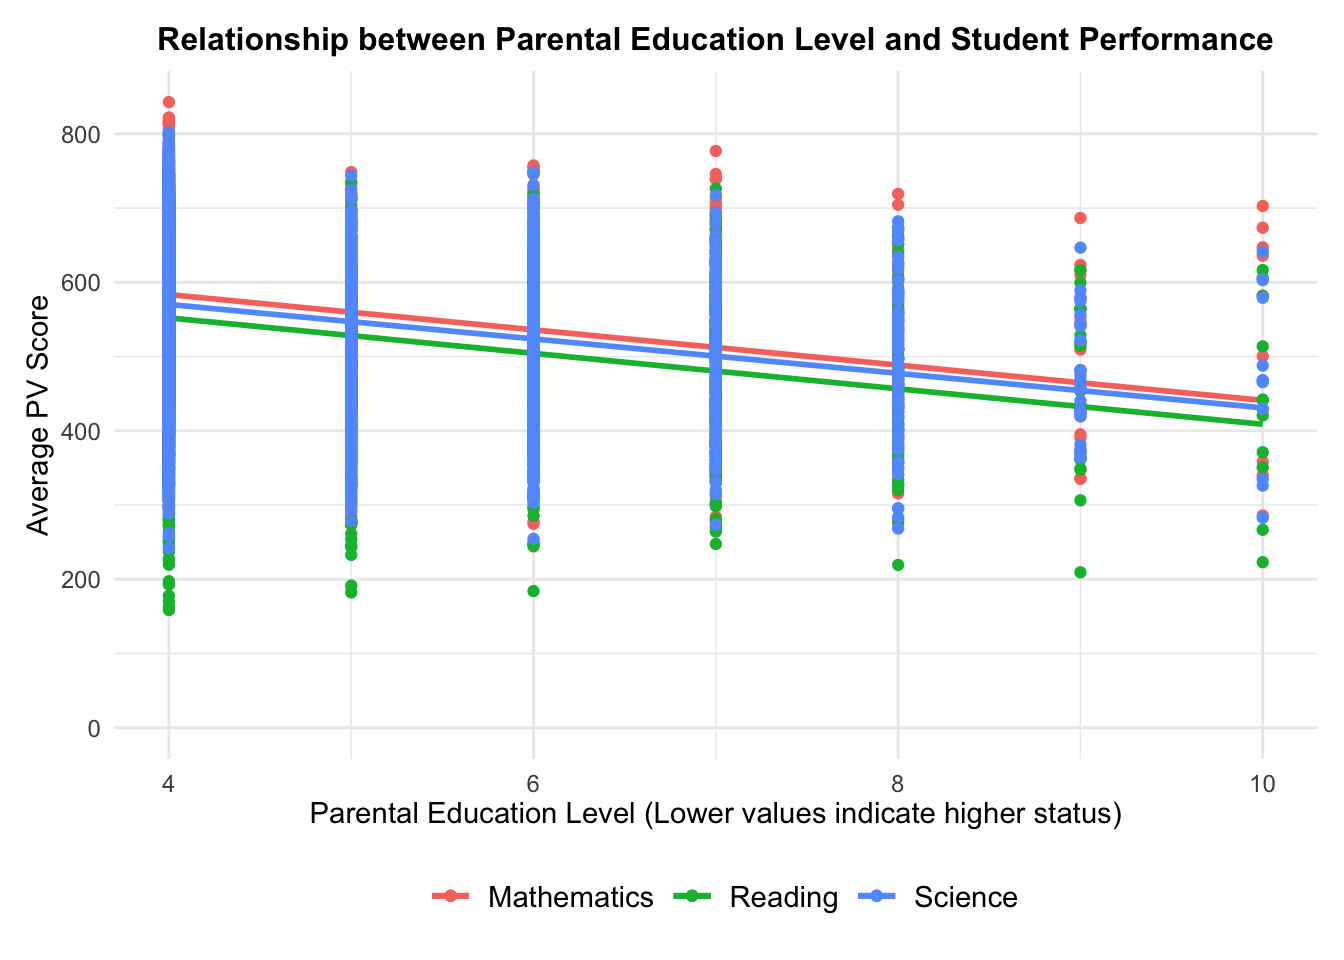
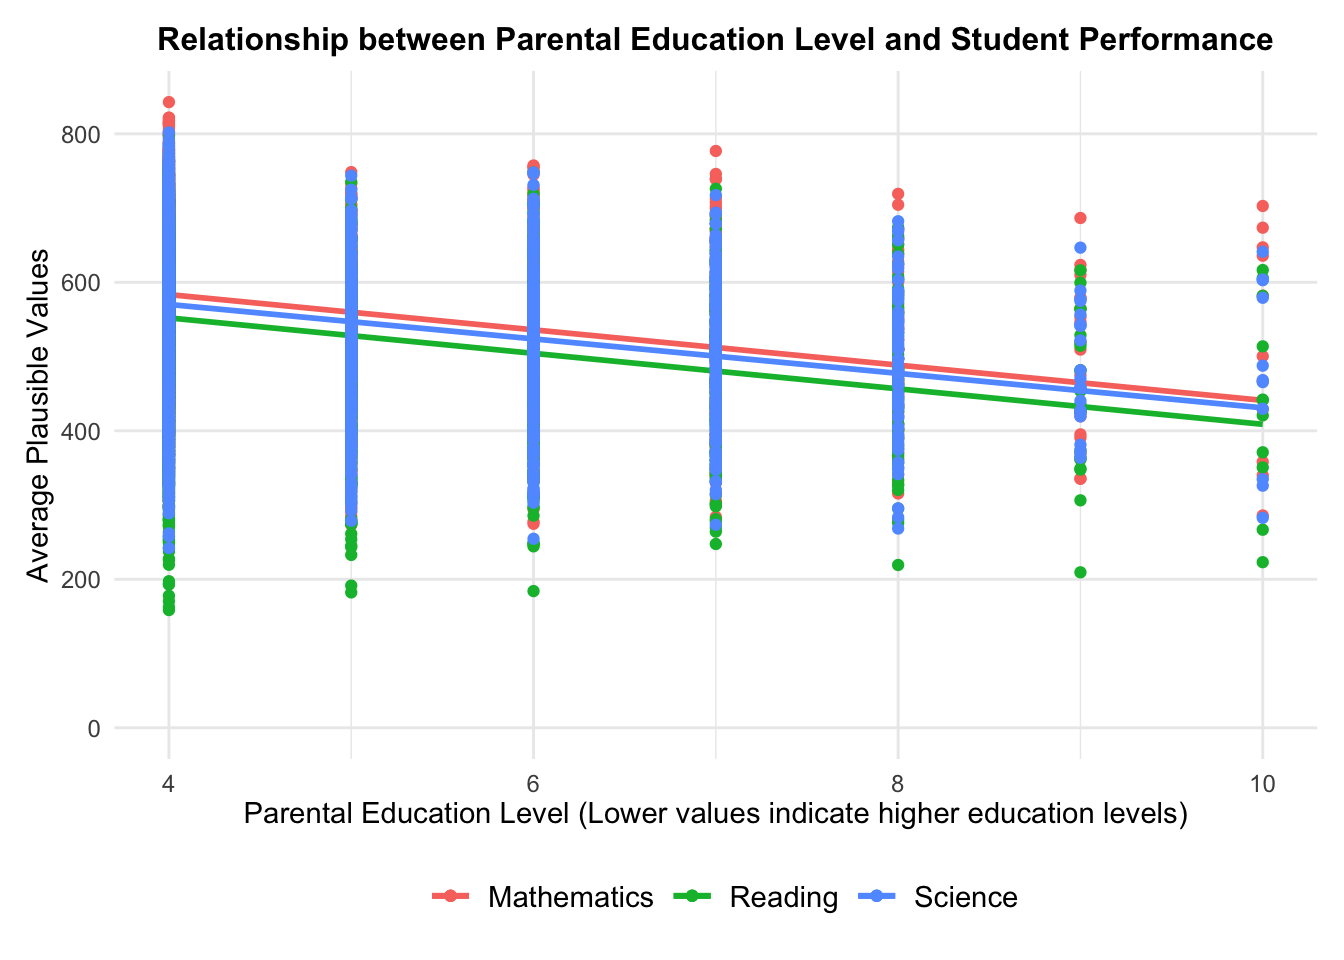
Take-home Exercise 2 WIP

Changed region(s): [[0.1875, 0.8125, 0.875, 0.875], [0.0, 0.2812, 0.0625, 0.5938]]

diff --git a/_site/Take-home_Ex/Take-home_Ex02/Take-home_Ex02.html b/_site/Take-home_Ex/Take-home_Ex02/Take-home_Ex02.html
@@ -197,7 +197,7 @@ pre > code.sourceCode > span > a:first-child::before { text-decoration: underlin
   <li><a href="#installing-r-packages" id="toc-installing-r-packages" class="nav-link" data-scroll-target="#installing-r-packages">1.1 Installing R packages</a></li>
   <li><a href="#importing-dataset" id="toc-importing-dataset" class="nav-link" data-scroll-target="#importing-dataset">1.2 Importing Dataset</a></li>
   </ul></li>
-  <li><a href="#critique-1" id="toc-critique-1" class="nav-link" data-scroll-target="#critique-1">2. Critique 1</a>
+  <li><a href="#critique-i" id="toc-critique-i" class="nav-link" data-scroll-target="#critique-i">2. Critique I</a>
   <ul class="collapse">
   <li><a href="#original-design" id="toc-original-design" class="nav-link" data-scroll-target="#original-design">2.1 Original Design</a></li>
   <li><a href="#enhancements-for-clarity" id="toc-enhancements-for-clarity" class="nav-link" data-scroll-target="#enhancements-for-clarity">2.2 Enhancements for Clarity</a></li>
@@ -214,16 +214,15 @@ pre > code.sourceCode > span > a:first-child::before { text-decoration: underlin
   <li><a href="#data-wrangling" id="toc-data-wrangling" class="nav-link" data-scroll-target="#data-wrangling">2.5 Data Wrangling</a></li>
   <li><a href="#final-design" id="toc-final-design" class="nav-link" data-scroll-target="#final-design">2.6 Final Design</a></li>
   </ul></li>
-  <li><a href="#critique-2" id="toc-critique-2" class="nav-link" data-scroll-target="#critique-2">3. Critique 2</a>
+  <li><a href="#critique-ii" id="toc-critique-ii" class="nav-link" data-scroll-target="#critique-ii">3. Critique II</a>
   <ul class="collapse">
   <li><a href="#original-design-1" id="toc-original-design-1" class="nav-link" data-scroll-target="#original-design-1">3.1 Original Design</a></li>
   <li><a href="#enhancements-for-clarity-1" id="toc-enhancements-for-clarity-1" class="nav-link" data-scroll-target="#enhancements-for-clarity-1">3.2 Enhancements for Clarity</a></li>
   <li><a href="#a-alternative-chart-type-for-better-analysis" id="toc-a-alternative-chart-type-for-better-analysis" class="nav-link" data-scroll-target="#a-alternative-chart-type-for-better-analysis">(a) Alternative chart type for better analysis</a></li>
   <li><a href="#sketch-of-proposed-design-1" id="toc-sketch-of-proposed-design-1" class="nav-link" data-scroll-target="#sketch-of-proposed-design-1">3.3 Sketch of Proposed Design</a></li>
-  <li><a href="#data-wrangling-1" id="toc-data-wrangling-1" class="nav-link" data-scroll-target="#data-wrangling-1">3.4 Data Wrangling</a></li>
   <li><a href="#final-design-1" id="toc-final-design-1" class="nav-link" data-scroll-target="#final-design-1">3.4 Final Design</a></li>
   </ul></li>
-  <li><a href="#critique-3" id="toc-critique-3" class="nav-link" data-scroll-target="#critique-3">4. Critique 3</a>
+  <li><a href="#critique-iii" id="toc-critique-iii" class="nav-link" data-scroll-target="#critique-iii">4. Critique III</a>
   <ul class="collapse">
   <li><a href="#original-design-2" id="toc-original-design-2" class="nav-link" data-scroll-target="#original-design-2">4.1 Original Design</a></li>
   <li><a href="#enhancements-for-clarity-2" id="toc-enhancements-for-clarity-2" class="nav-link" data-scroll-target="#enhancements-for-clarity-2">4.2 Enhancements for Clarity</a></li>
@@ -234,11 +233,10 @@ pre > code.sourceCode > span > a:first-child::before { text-decoration: underlin
   <li><a href="#a-centralized-main-graph-title" id="toc-a-centralized-main-graph-title" class="nav-link" data-scroll-target="#a-centralized-main-graph-title">(a) Centralized Main Graph Title</a></li>
   <li><a href="#b-enhanced-legend-and-color-differentiation" id="toc-b-enhanced-legend-and-color-differentiation" class="nav-link" data-scroll-target="#b-enhanced-legend-and-color-differentiation">(b) Enhanced Legend and Color Differentiation</a></li>
   <li><a href="#c-background-and-gridline-adjustment" id="toc-c-background-and-gridline-adjustment" class="nav-link" data-scroll-target="#c-background-and-gridline-adjustment">(c) Background and Gridline Adjustment</a></li>
-  <li><a href="#sketch-of-proposed-design-2" id="toc-sketch-of-proposed-design-2" class="nav-link" data-scroll-target="#sketch-of-proposed-design-2">4.5 Sketch of Proposed Design</a></li>
-  <li><a href="#data-wrangling-2" id="toc-data-wrangling-2" class="nav-link" data-scroll-target="#data-wrangling-2">4.5 Data Wrangling</a></li>
-  <li><a href="#final-design-2" id="toc-final-design-2" class="nav-link" data-scroll-target="#final-design-2">4.6 Final Design</a></li>
+  <li><a href="#sketch-of-proposed-design-2" id="toc-sketch-of-proposed-design-2" class="nav-link" data-scroll-target="#sketch-of-proposed-design-2">4.4 Sketch of Proposed Design</a></li>
+  <li><a href="#final-design-2" id="toc-final-design-2" class="nav-link" data-scroll-target="#final-design-2">4.5 Final Design</a></li>
   </ul></li>
-  <li><a href="#critique-4" id="toc-critique-4" class="nav-link" data-scroll-target="#critique-4">5. Critique 4</a>
+  <li><a href="#critique-iv" id="toc-critique-iv" class="nav-link" data-scroll-target="#critique-iv">5. Critique IV</a>
   <ul class="collapse">
   <li><a href="#original-design-3" id="toc-original-design-3" class="nav-link" data-scroll-target="#original-design-3">5.1 Original Design</a></li>
   <li><a href="#enhancements-for-clarity-3" id="toc-enhancements-for-clarity-3" class="nav-link" data-scroll-target="#enhancements-for-clarity-3">5.2 Enhancements for Clarity</a></li>
@@ -249,8 +247,7 @@ pre > code.sourceCode > span > a:first-child::before { text-decoration: underlin
   <li><a href="#a-harmonizing-color-palette" id="toc-a-harmonizing-color-palette" class="nav-link" data-scroll-target="#a-harmonizing-color-palette">(a) Harmonizing Color Palette</a></li>
   <li><a href="#b-enhancing-dot-visibility" id="toc-b-enhancing-dot-visibility" class="nav-link" data-scroll-target="#b-enhancing-dot-visibility">(b) Enhancing Dot Visibility</a></li>
   <li><a href="#sketch-of-proposed-design-3" id="toc-sketch-of-proposed-design-3" class="nav-link" data-scroll-target="#sketch-of-proposed-design-3">5.4 Sketch of Proposed Design</a></li>
-  <li><a href="#data-wrangling-3" id="toc-data-wrangling-3" class="nav-link" data-scroll-target="#data-wrangling-3">5.5 Data Wrangling</a></li>
-  <li><a href="#final-design-3" id="toc-final-design-3" class="nav-link" data-scroll-target="#final-design-3">5.6 Final Design</a></li>
+  <li><a href="#final-design-3" id="toc-final-design-3" class="nav-link" data-scroll-target="#final-design-3">5.5 Final Design</a></li>
   </ul></li>
   </ul>
 </nav>
@@ -278,7 +275,7 @@ pre > code.sourceCode > span > a:first-child::before { text-decoration: underlin
     <div>
     <div class="quarto-title-meta-heading">Modified</div>
     <div class="quarto-title-meta-contents">
-      <p class="date-modified">January 26, 2024</p>
+      <p class="date-modified">January 27, 2024</p>
     </div>
   </div>
     
@@ -338,8 +335,8 @@ pre > code.sourceCode > span > a:first-child::before { text-decoration: underlin
 </div>
 </section>
 </section>
-<section id="critique-1" class="level1">
-<h1>2. Critique 1</h1>
+<section id="critique-i" class="level1">
+<h1>2. Critique I</h1>
 <section id="original-design" class="level2">
 <h2 class="anchored" data-anchor-id="original-design">2.1 Original Design</h2>
 <p>The original design is shown below. <img src="images/Image1.png" class="img-fluid"></p>
@@ -385,6 +382,7 @@ pre > code.sourceCode > span > a:first-child::before { text-decoration: underlin
 </section>
 <section id="sketch-of-proposed-design" class="level2">
 <h2 class="anchored" data-anchor-id="sketch-of-proposed-design">2.4 Sketch of Proposed Design</h2>
+<p><img src="images/Image5.jpg" class="img-fluid"></p>
 </section>
 <section id="data-wrangling" class="level2">
 <h2 class="anchored" data-anchor-id="data-wrangling">2.5 Data Wrangling</h2>
@@ -504,8 +502,8 @@ pre > code.sourceCode > span > a:first-child::before { text-decoration: underlin
 </div>
 </section>
 </section>
-<section id="critique-2" class="level1">
-<h1>3. Critique 2</h1>
+<section id="critique-ii" class="level1">
+<h1>3. Critique II</h1>
 <section id="original-design-1" class="level2">
 <h2 class="anchored" data-anchor-id="original-design-1">3.1 Original Design</h2>
 <p>The original design is shown below.</p>
@@ -520,9 +518,7 @@ pre > code.sourceCode > span > a:first-child::before { text-decoration: underlin
 </section>
 <section id="sketch-of-proposed-design-1" class="level2">
 <h2 class="anchored" data-anchor-id="sketch-of-proposed-design-1">3.3 Sketch of Proposed Design</h2>
-</section>
-<section id="data-wrangling-1" class="level2">
-<h2 class="anchored" data-anchor-id="data-wrangling-1">3.4 Data Wrangling</h2>
+<p><img src="images/Image6.jpg" class="img-fluid"></p>
 </section>
 <section id="final-design-1" class="level2">
 <h2 class="anchored" data-anchor-id="final-design-1">3.4 Final Design</h2>
@@ -599,8 +595,8 @@ pre > code.sourceCode > span > a:first-child::before { text-decoration: underlin
 </div>
 </section>
 </section>
-<section id="critique-3" class="level1">
-<h1>4. Critique 3</h1>
+<section id="critique-iii" class="level1">
+<h1>4. Critique III</h1>
 <section id="original-design-2" class="level2">
 <h2 class="anchored" data-anchor-id="original-design-2">4.1 Original Design</h2>
 <p>The original design is shown below.</p>
@@ -637,13 +633,11 @@ pre > code.sourceCode > span > a:first-child::before { text-decoration: underlin
 <p>To accommodate the various colors present in the graph and enhance visual clarity, we will remove the grey background. This simplification will reduce visual clutter and focus attention on the data points. Additionally, to maintain gridline visibility while ensuring they are not visually intrusive, we will change their color to a subtle grey. This adjustment will create a cleaner and more visually pleasing graph that is easier on the eyes.</p>
 </section>
 <section id="sketch-of-proposed-design-2" class="level2">
-<h2 class="anchored" data-anchor-id="sketch-of-proposed-design-2">4.5 Sketch of Proposed Design</h2>
-</section>
-<section id="data-wrangling-2" class="level2">
-<h2 class="anchored" data-anchor-id="data-wrangling-2">4.5 Data Wrangling</h2>
+<h2 class="anchored" data-anchor-id="sketch-of-proposed-design-2">4.4 Sketch of Proposed Design</h2>
+<p><img src="images/Image7.jpg" class="img-fluid"></p>
 </section>
 <section id="final-design-2" class="level2">
-<h2 class="anchored" data-anchor-id="final-design-2">4.6 Final Design</h2>
+<h2 class="anchored" data-anchor-id="final-design-2">4.5 Final Design</h2>
 <div class="cell">
 <div class="sourceCode cell-code" id="cb13"><pre class="sourceCode r code-with-copy"><code class="sourceCode r"><span id="cb13-1"><a href="#cb13-1" aria-hidden="true" tabindex="-1"></a><span class="fu">library</span>(ggplot2)</span>
 <span id="cb13-2"><a href="#cb13-2" aria-hidden="true" tabindex="-1"></a><span class="fu">library</span>(dplyr)</span>
@@ -688,30 +682,31 @@ pre > code.sourceCode > span > a:first-child::before { text-decoration: underlin
 <span id="cb13-41"><a href="#cb13-41" aria-hidden="true" tabindex="-1"></a>  <span class="fu">scale_y_continuous</span>(<span class="at">expand =</span> <span class="fu">expansion</span>(<span class="at">mult =</span> <span class="fu">c</span>(<span class="fl">0.01</span>, <span class="fl">0.01</span>)), <span class="at">limits =</span> <span class="fu">c</span>(<span class="dv">0</span>, <span class="cn">NA</span>)) <span class="sc">+</span>  <span class="co"># Start y-axis at 0, adjust if needed</span></span>
 <span id="cb13-42"><a href="#cb13-42" aria-hidden="true" tabindex="-1"></a>  <span class="fu">theme_minimal</span>() <span class="sc">+</span></span>
 <span id="cb13-43"><a href="#cb13-43" aria-hidden="true" tabindex="-1"></a>  <span class="fu">theme</span>(</span>
-<span id="cb13-44"><a href="#cb13-44" aria-hidden="true" tabindex="-1"></a>    <span class="at">plot.title =</span> <span class="fu">element_text</span>(<span class="at">hjust =</span> <span class="fl">0.5</span>, <span class="at">face =</span> <span class="st">"bold"</span>, <span class="at">size =</span> <span class="dv">14</span>),</span>
-<span id="cb13-45"><a href="#cb13-45" aria-hidden="true" tabindex="-1"></a>    <span class="at">axis.title.x =</span> <span class="fu">element_text</span>(<span class="at">size =</span> <span class="dv">11</span>),</span>
-<span id="cb13-46"><a href="#cb13-46" aria-hidden="true" tabindex="-1"></a>    <span class="at">axis.title.y =</span> <span class="fu">element_text</span>(<span class="at">size =</span> <span class="dv">11</span>),</span>
-<span id="cb13-47"><a href="#cb13-47" aria-hidden="true" tabindex="-1"></a>    <span class="at">axis.text.x =</span> <span class="fu">element_text</span>(<span class="at">hjust =</span> <span class="dv">1</span>, <span class="at">angle =</span> <span class="dv">0</span>),  <span class="co"># Horizontal x-axis text</span></span>
-<span id="cb13-48"><a href="#cb13-48" aria-hidden="true" tabindex="-1"></a>    <span class="at">axis.text.y =</span> <span class="fu">element_text</span>(<span class="at">size =</span> <span class="dv">11</span>),</span>
-<span id="cb13-49"><a href="#cb13-49" aria-hidden="true" tabindex="-1"></a>    <span class="at">panel.grid.major.x =</span> <span class="fu">element_line</span>(<span class="at">color =</span> <span class="st">"grey90"</span>), <span class="co"># Add vertical gridlines</span></span>
-<span id="cb13-50"><a href="#cb13-50" aria-hidden="true" tabindex="-1"></a>    <span class="at">panel.grid.minor.x =</span> <span class="fu">element_blank</span>(),</span>
-<span id="cb13-51"><a href="#cb13-51" aria-hidden="true" tabindex="-1"></a>    <span class="at">panel.grid.major.y =</span> <span class="fu">element_line</span>(<span class="at">color =</span> <span class="st">"grey90"</span>), <span class="co"># Add horizontal gridlines</span></span>
-<span id="cb13-52"><a href="#cb13-52" aria-hidden="true" tabindex="-1"></a>    <span class="at">legend.position =</span> <span class="st">"bottom"</span>,</span>
-<span id="cb13-53"><a href="#cb13-53" aria-hidden="true" tabindex="-1"></a>    <span class="at">legend.title =</span> <span class="fu">element_blank</span>(),</span>
-<span id="cb13-54"><a href="#cb13-54" aria-hidden="true" tabindex="-1"></a>    <span class="at">legend.text =</span> <span class="fu">element_text</span>(<span class="at">size =</span> <span class="dv">12</span>)</span>
-<span id="cb13-55"><a href="#cb13-55" aria-hidden="true" tabindex="-1"></a>  ) <span class="sc">+</span></span>
-<span id="cb13-56"><a href="#cb13-56" aria-hidden="true" tabindex="-1"></a>  <span class="fu">guides</span>(<span class="at">color =</span> <span class="fu">guide_legend</span>(<span class="at">title =</span> <span class="st">"Subject"</span>, <span class="at">override.aes =</span> <span class="fu">list</span>(<span class="at">size =</span> <span class="dv">4</span>))) <span class="co"># Ensure legend is shown</span></span>
-<span id="cb13-57"><a href="#cb13-57" aria-hidden="true" tabindex="-1"></a></span>
-<span id="cb13-58"><a href="#cb13-58" aria-hidden="true" tabindex="-1"></a><span class="co"># Print the scatterplot</span></span>
-<span id="cb13-59"><a href="#cb13-59" aria-hidden="true" tabindex="-1"></a><span class="fu">print</span>(p_combined)</span></code><button title="Copy to Clipboard" class="code-copy-button"><i class="bi"></i></button></pre></div>
+<span id="cb13-44"><a href="#cb13-44" aria-hidden="true" tabindex="-1"></a>  <span class="at">plot.title =</span> <span class="fu">element_text</span>(<span class="at">hjust =</span> <span class="fl">0.5</span>, <span class="at">face =</span> <span class="st">"bold"</span>, <span class="at">size =</span> <span class="dv">14</span>),</span>
+<span id="cb13-45"><a href="#cb13-45" aria-hidden="true" tabindex="-1"></a>  <span class="at">axis.title.x =</span> <span class="fu">element_text</span>(<span class="at">size =</span> <span class="dv">11</span>),</span>
+<span id="cb13-46"><a href="#cb13-46" aria-hidden="true" tabindex="-1"></a>  <span class="at">axis.title.y =</span> <span class="fu">element_text</span>(<span class="at">size =</span> <span class="dv">11</span>),</span>
+<span id="cb13-47"><a href="#cb13-47" aria-hidden="true" tabindex="-1"></a>  <span class="at">axis.text.x =</span> <span class="fu">element_text</span>(<span class="at">hjust =</span> <span class="dv">1</span>, <span class="at">angle =</span> <span class="dv">0</span>),  <span class="co"># Horizontal x-axis text</span></span>
+<span id="cb13-48"><a href="#cb13-48" aria-hidden="true" tabindex="-1"></a>  <span class="at">axis.text.y =</span> <span class="fu">element_text</span>(<span class="at">size =</span> <span class="dv">11</span>),</span>
+<span id="cb13-49"><a href="#cb13-49" aria-hidden="true" tabindex="-1"></a>  <span class="at">panel.grid.major.x =</span> <span class="fu">element_line</span>(<span class="at">color =</span> <span class="st">"grey90"</span>),  <span class="co"># Add vertical gridlines</span></span>
+<span id="cb13-50"><a href="#cb13-50" aria-hidden="true" tabindex="-1"></a>  <span class="at">panel.grid.minor.x =</span> <span class="fu">element_blank</span>(),  <span class="co"># Remove minor vertical gridlines</span></span>
+<span id="cb13-51"><a href="#cb13-51" aria-hidden="true" tabindex="-1"></a>  <span class="at">panel.grid.major.y =</span> <span class="fu">element_line</span>(<span class="at">color =</span> <span class="st">"grey90"</span>),  <span class="co"># Add major horizontal gridlines</span></span>
+<span id="cb13-52"><a href="#cb13-52" aria-hidden="true" tabindex="-1"></a>  <span class="at">panel.grid.minor.y =</span> <span class="fu">element_blank</span>(),  <span class="co"># Remove minor horizontal gridlines</span></span>
+<span id="cb13-53"><a href="#cb13-53" aria-hidden="true" tabindex="-1"></a>  <span class="at">legend.position =</span> <span class="st">"bottom"</span>,</span>
+<span id="cb13-54"><a href="#cb13-54" aria-hidden="true" tabindex="-1"></a>  <span class="at">legend.title =</span> <span class="fu">element_blank</span>(),</span>
+<span id="cb13-55"><a href="#cb13-55" aria-hidden="true" tabindex="-1"></a>  <span class="at">legend.text =</span> <span class="fu">element_text</span>(<span class="at">size =</span> <span class="dv">12</span>)</span>
+<span id="cb13-56"><a href="#cb13-56" aria-hidden="true" tabindex="-1"></a>) <span class="sc">+</span></span>
+<span id="cb13-57"><a href="#cb13-57" aria-hidden="true" tabindex="-1"></a><span class="fu">guides</span>(<span class="at">color =</span> <span class="fu">guide_legend</span>(<span class="at">title =</span> <span class="st">"Subject"</span>, <span class="at">override.aes =</span> <span class="fu">list</span>(<span class="at">size =</span> <span class="dv">4</span>))) <span class="co"># Ensure legend is shown correctly</span></span>
+<span id="cb13-58"><a href="#cb13-58" aria-hidden="true" tabindex="-1"></a></span>
+<span id="cb13-59"><a href="#cb13-59" aria-hidden="true" tabindex="-1"></a><span class="co"># Print the scatterplot</span></span>
+<span id="cb13-60"><a href="#cb13-60" aria-hidden="true" tabindex="-1"></a><span class="fu">print</span>(p_combined)</span></code><button title="Copy to Clipboard" class="code-copy-button"><i class="bi"></i></button></pre></div>
 <div class="cell-output-display">
 <p><img src="Take-home_Ex02_files/figure-html/unnamed-chunk-12-1.png" class="img-fluid" width="672"></p>
 </div>
 </div>
 </section>
 </section>
-<section id="critique-4" class="level1">
-<h1>5. Critique 4</h1>
+<section id="critique-iv" class="level1">
+<h1>5. Critique IV</h1>
 <section id="original-design-3" class="level2">
 <h2 class="anchored" data-anchor-id="original-design-3">5.1 Original Design</h2>
 <p>The original design is shown below.</p>
@@ -745,12 +740,10 @@ pre > code.sourceCode > span > a:first-child::before { text-decoration: underlin
 </section>
 <section id="sketch-of-proposed-design-3" class="level2">
 <h2 class="anchored" data-anchor-id="sketch-of-proposed-design-3">5.4 Sketch of Proposed Design</h2>
-</section>
-<section id="data-wrangling-3" class="level2">
-<h2 class="anchored" data-anchor-id="data-wrangling-3">5.5 Data Wrangling</h2>
+<p><img src="images/Image8.jpg" class="img-fluid"></p>
 </section>
 <section id="final-design-3" class="level2">
-<h2 class="anchored" data-anchor-id="final-design-3">5.6 Final Design</h2>
+<h2 class="anchored" data-anchor-id="final-design-3">5.5 Final Design</h2>
 <div class="cell">
 <div class="sourceCode cell-code" id="cb14"><pre class="sourceCode r code-with-copy"><code class="sourceCode r"><span id="cb14-1"><a href="#cb14-1" aria-hidden="true" tabindex="-1"></a><span class="fu">library</span>(ggplot2)</span>
 <span id="cb14-2"><a href="#cb14-2" aria-hidden="true" tabindex="-1"></a><span class="fu">library</span>(dplyr)</span>
@@ -774,8 +767,8 @@ pre > code.sourceCode > span > a:first-child::before { text-decoration: underlin
 <span id="cb14-20"><a href="#cb14-20" aria-hidden="true" tabindex="-1"></a>  <span class="fu">geom_smooth</span>(<span class="fu">aes</span>(<span class="at">y =</span> avg_pvSCIE, <span class="at">color =</span> <span class="st">"Science"</span>), <span class="at">method =</span> <span class="st">"lm"</span>, <span class="at">se =</span> <span class="cn">FALSE</span>, <span class="at">na.rm =</span> <span class="cn">TRUE</span>) <span class="sc">+</span></span>
 <span id="cb14-21"><a href="#cb14-21" aria-hidden="true" tabindex="-1"></a>  <span class="fu">labs</span>(</span>
 <span id="cb14-22"><a href="#cb14-22" aria-hidden="true" tabindex="-1"></a>    <span class="at">title =</span> <span class="st">"Relationship between Parental Education Level and Student Performance"</span>,</span>
-<span id="cb14-23"><a href="#cb14-23" aria-hidden="true" tabindex="-1"></a>    <span class="at">x =</span> <span class="st">"Parental Education Level (Lower values indicate higher status)"</span>,</span>
-<span id="cb14-24"><a href="#cb14-24" aria-hidden="true" tabindex="-1"></a>    <span class="at">y =</span> <span class="st">"Average PV Score"</span>,</span>
+<span id="cb14-23"><a href="#cb14-23" aria-hidden="true" tabindex="-1"></a>    <span class="at">x =</span> <span class="st">"Parental Education Level (Lower values indicate higher education levels)"</span>,</span>
+<span id="cb14-24"><a href="#cb14-24" aria-hidden="true" tabindex="-1"></a>    <span class="at">y =</span> <span class="st">"Average Plausible Values"</span>,</span>
 <span id="cb14-25"><a href="#cb14-25" aria-hidden="true" tabindex="-1"></a>    </span>
 <span id="cb14-26"><a href="#cb14-26" aria-hidden="true" tabindex="-1"></a>  ) <span class="sc">+</span></span>
 <span id="cb14-27"><a href="#cb14-27" aria-hidden="true" tabindex="-1"></a>  <span class="fu">scale_color_discrete</span>() <span class="sc">+</span>  <span class="co"># Use default color scheme</span></span>
@@ -788,12 +781,13 @@ pre > code.sourceCode > span > a:first-child::before { text-decoration: underlin
 <span id="cb14-34"><a href="#cb14-34" aria-hidden="true" tabindex="-1"></a>    <span class="at">legend.position =</span> <span class="st">"bottom"</span>,</span>
 <span id="cb14-35"><a href="#cb14-35" aria-hidden="true" tabindex="-1"></a>    <span class="at">legend.title =</span> <span class="fu">element_blank</span>(),</span>
 <span id="cb14-36"><a href="#cb14-36" aria-hidden="true" tabindex="-1"></a>    <span class="at">plot.margin =</span> <span class="fu">margin</span>(<span class="at">t =</span> <span class="dv">10</span>, <span class="at">r =</span> <span class="dv">10</span>, <span class="at">b =</span> <span class="dv">10</span>, <span class="at">l =</span> <span class="dv">10</span>),</span>
-<span id="cb14-37"><a href="#cb14-37" aria-hidden="true" tabindex="-1"></a>    <span class="at">legend.text =</span> <span class="fu">element_text</span>(<span class="at">size =</span> <span class="dv">11</span>)</span>
-<span id="cb14-38"><a href="#cb14-38" aria-hidden="true" tabindex="-1"></a>  ) <span class="sc">+</span></span>
-<span id="cb14-39"><a href="#cb14-39" aria-hidden="true" tabindex="-1"></a>  <span class="fu">expand_limits</span>(<span class="at">y =</span> <span class="dv">0</span>)  <span class="co"># Ensure the y-axis starts at zero</span></span>
-<span id="cb14-40"><a href="#cb14-40" aria-hidden="true" tabindex="-1"></a></span>
-<span id="cb14-41"><a href="#cb14-41" aria-hidden="true" tabindex="-1"></a><span class="co"># Print the plot</span></span>
-<span id="cb14-42"><a href="#cb14-42" aria-hidden="true" tabindex="-1"></a><span class="fu">print</span>(p_combined)</span></code><button title="Copy to Clipboard" class="code-copy-button"><i class="bi"></i></button></pre></div>
+<span id="cb14-37"><a href="#cb14-37" aria-hidden="true" tabindex="-1"></a>    <span class="at">legend.text =</span> <span class="fu">element_text</span>(<span class="at">size =</span> <span class="dv">11</span>),</span>
+<span id="cb14-38"><a href="#cb14-38" aria-hidden="true" tabindex="-1"></a>    <span class="at">panel.grid.minor.y =</span> <span class="fu">element_blank</span>()</span>
+<span id="cb14-39"><a href="#cb14-39" aria-hidden="true" tabindex="-1"></a>  ) <span class="sc">+</span></span>
+<span id="cb14-40"><a href="#cb14-40" aria-hidden="true" tabindex="-1"></a>  <span class="fu">expand_limits</span>(<span class="at">y =</span> <span class="dv">0</span>)  <span class="co"># Ensure the y-axis starts at zero</span></span>
+<span id="cb14-41"><a href="#cb14-41" aria-hidden="true" tabindex="-1"></a></span>
+<span id="cb14-42"><a href="#cb14-42" aria-hidden="true" tabindex="-1"></a><span class="co"># Print the plot</span></span>
+<span id="cb14-43"><a href="#cb14-43" aria-hidden="true" tabindex="-1"></a><span class="fu">print</span>(p_combined)</span></code><button title="Copy to Clipboard" class="code-copy-button"><i class="bi"></i></button></pre></div>
 <div class="cell-output-display">
 <p><img src="Take-home_Ex02_files/figure-html/unnamed-chunk-13-1.png" class="img-fluid" width="672"></p>
 </div>
